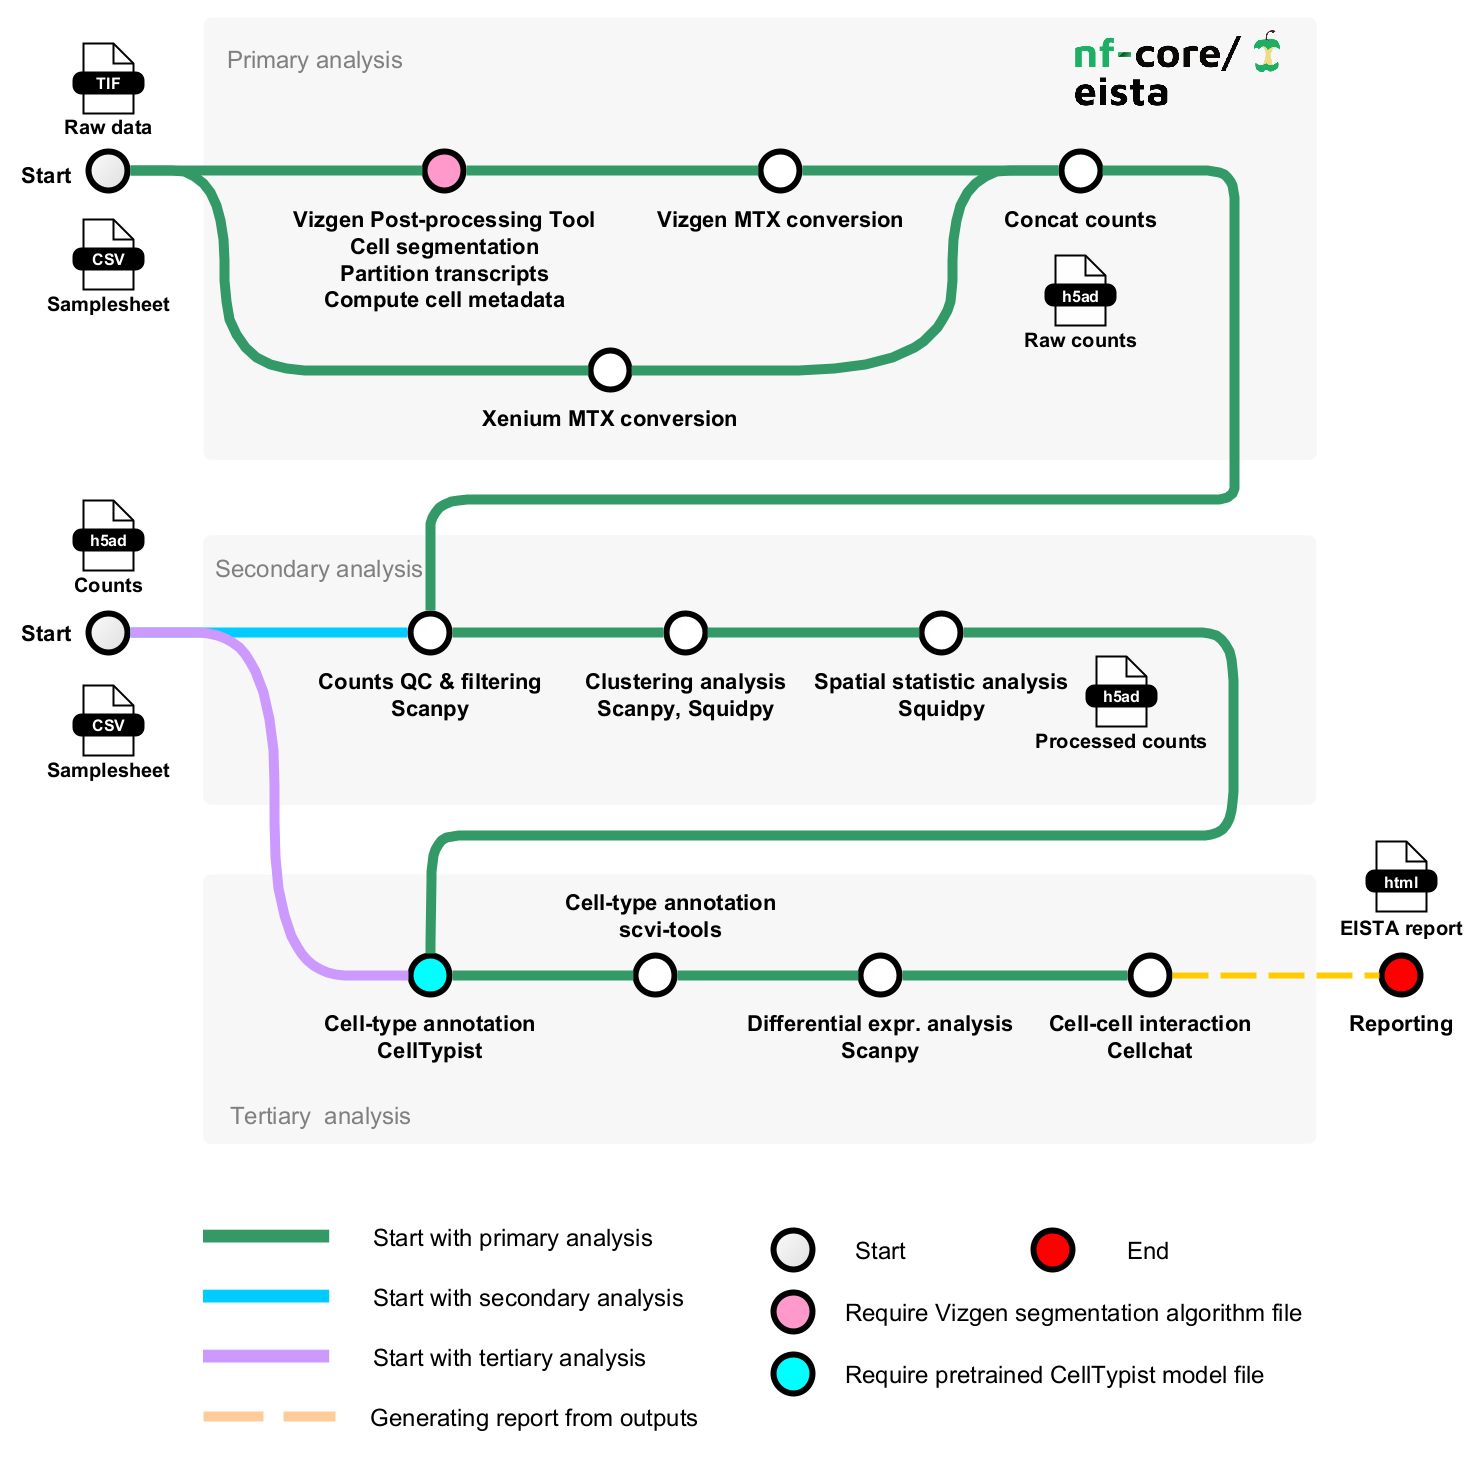
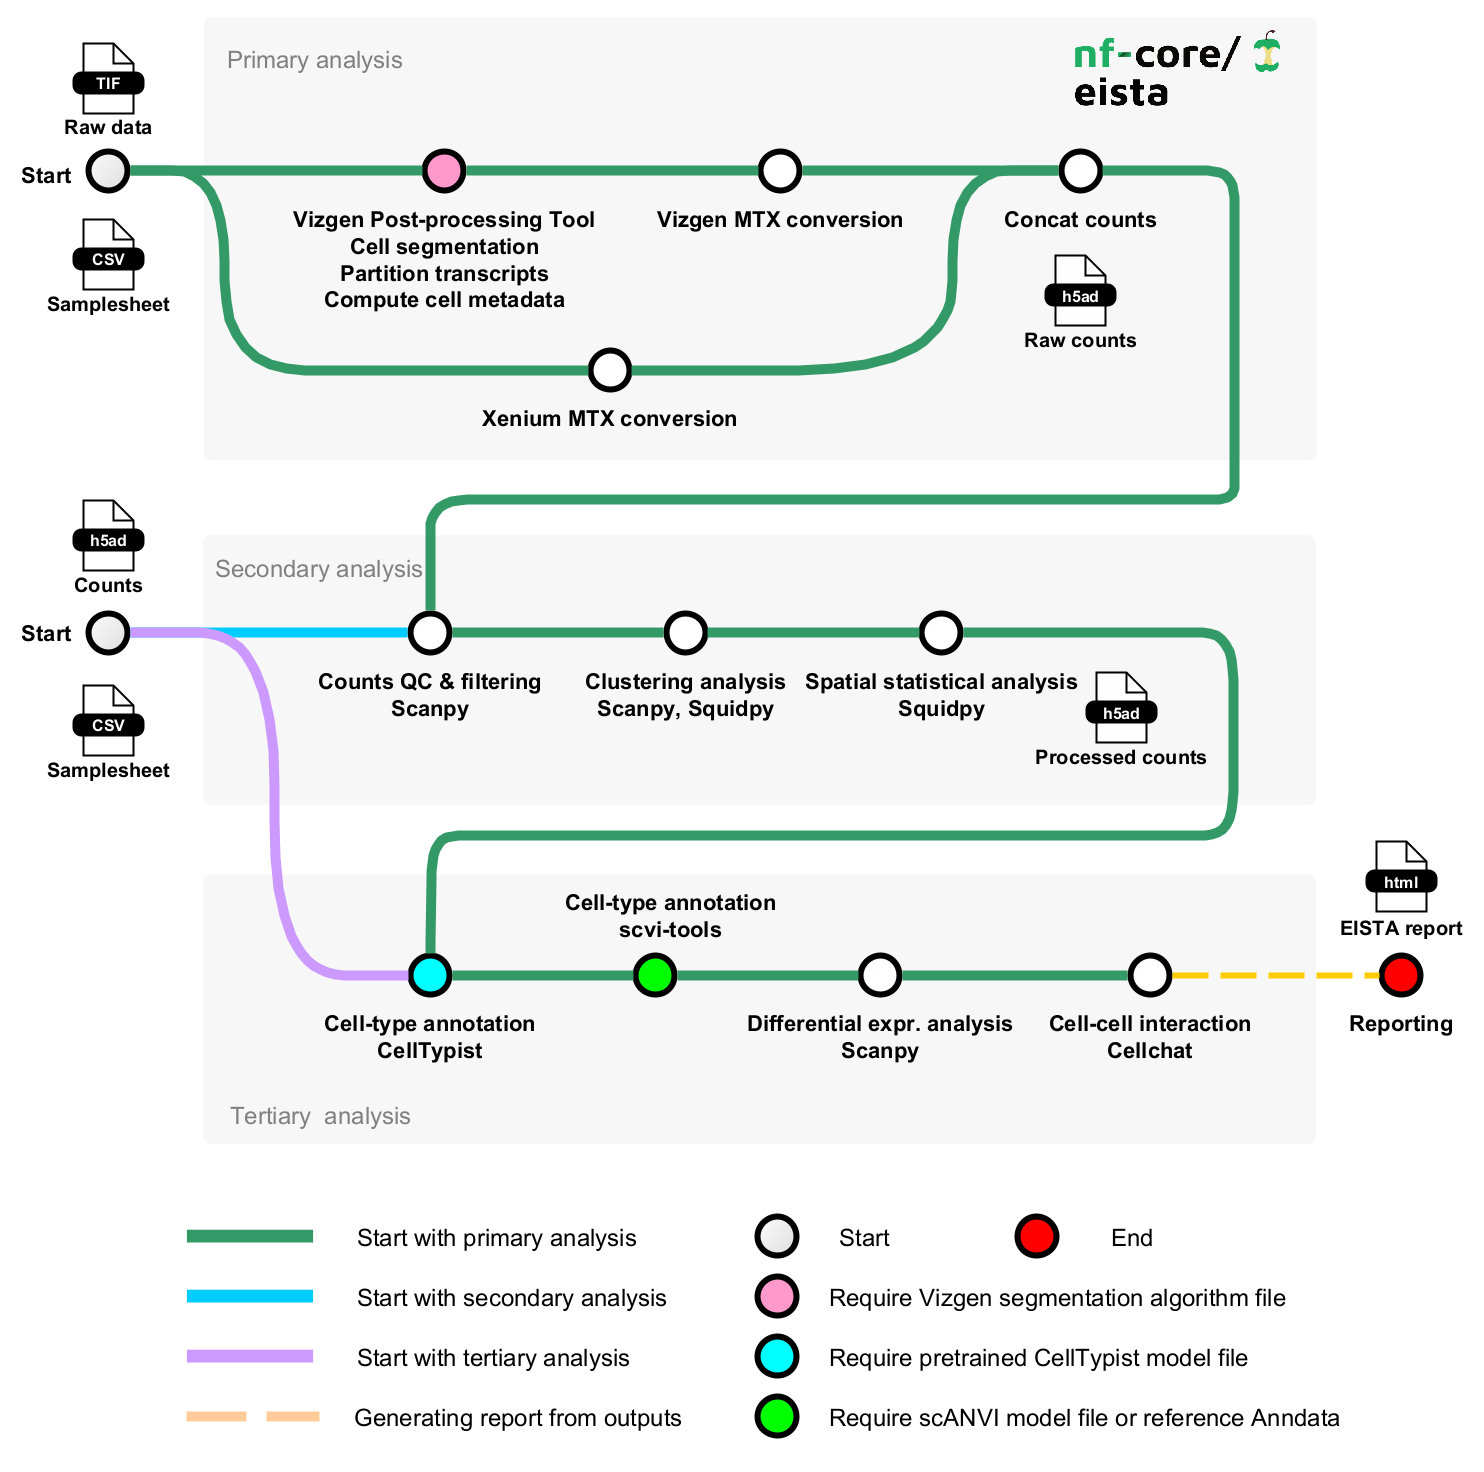
improve docs

diff --git a/bin/qc_cell_filter.py b/bin/qc_cell_filter.py
@@ -239,9 +239,10 @@ def main(argv=None):
         # # hemoglobin genes
         # adata_s.var["hb"] = adata_s.var_names.str.contains("^HB[^(P)]")
 
-        sc.pp.calculate_qc_metrics(
-            adata_s, percent_top=(50, 100, 200, 300), inplace=True, log1p=True
-        )
+        # sc.pp.calculate_qc_metrics(
+        #     adata_s, percent_top=(50, 100, 200, 300), inplace=True, log1p=True
+        # )
+        sc.pp.calculate_qc_metrics(adata_s, percent_top=[], inplace=True, log1p=True)
 
         # create summary csv file for all samples
         n_cells_raw = adata_s.obs[adata_s.obs['n_genes_by_counts']>0].shape[0]
@@ -355,7 +356,7 @@ def main(argv=None):
         if max_genes_s > 0:
             sc.pp.filter_cells(adata_s, max_genes=max_genes_s)
 
-        sc.pp.calculate_qc_metrics(adata_s, inplace=True)
+        sc.pp.calculate_qc_metrics(adata_s, percent_top=[], inplace=True)
 
         if args.iqr_coef > 0:
             # q1 = np.percentile(adata_s.obs.total_counts.values, 25)
@@ -363,7 +364,7 @@ def main(argv=None):
             # upper_fence = q3 + args.iqr_coef*(q3 - q1)
             lower_fence, upper_fence = util.iqr_bounds(adata_s.obs["total_counts"], args.iqr_coef)
             sc.pp.filter_cells(adata_s, max_counts=upper_fence)
-            sc.pp.calculate_qc_metrics(adata_s, inplace=True)
+            sc.pp.calculate_qc_metrics(adata_s, percent_top=[], inplace=True)
 
         if min_volume_s > 0:
             adata_s = adata_s[adata_s.obs.volume.values > min_volume_s]

diff --git a/bin/rank_genes.py b/bin/rank_genes.py
@@ -165,9 +165,7 @@ def main(argv=None):
             groups.remove(args.reference)
 
         if args.celltype_col: # DEA between conditions for each celltype
-            celltypes = sorted(adata.obs[args.celltype_col].unique()) if args.celltypes==None else args.celltypes.split(',')
-            # path_analysis = Path(path_analysis, 'compare_ct')
-            # util.check_and_create_folder(path_analysis)
+            celltypes = args.celltypes.split(',') if args.celltypes else sorted(adata.obs[args.celltype_col].unique()) 
             for celltype in celltypes:
                 adata_s = adata[adata.obs[args.celltype_col]==celltype]   
                 path_analysis_s = Path(path_analysis, f"celltype_{celltype}".replace(' ', '_').replace('/', '_'))

diff --git a/docs/output.md b/docs/output.md
@@ -79,6 +79,8 @@ The pipeline is built using [Nextflow](https://www.nextflow.io/) and processes d
 - `sample_*/` or `group_*/`
   - `umap_leiden_res_*.png`: UMAP plots showing clustering results with differnt resoultuion settings.
   - `spatial_scatter_leiden_res_*.png`: spatial scatter plots for the corresponding resolutions of clustering.
+  - `spatial_map_res_*/`
+    - `spatial_map_label_*.png`: spatial scatter plots for individual clusters.
 - `resolution_*/`
   - `prop_leiden_res_*.png`: plot showing a stacked bar chart that presents the proportions of clusters across samples/groups.
 - `parameters.json`: a JSON file containing the parameter settings in the analysis.
@@ -128,14 +130,35 @@ The pipeline is built using [Nextflow](https://www.nextflow.io/) and processes d
 ### <u>DEA analysis</u>
 
 **Output directory: `results/dea`**
-- `markers/`: subfolder for the identification of marker genes.
-- `compare/`: subfolder for the identification of differentially expressed genes between groups across all cells.
-- `compare_ct/`: subfolder for the identification of differentially expressed genes between groups across cell types.
-  - `sample_*/` or `group_*/` or `celltype_*/` (no subfolder for DEA betweeen groups)
-    - `plot_genes_*.png`: plots showing top number of DE genes across groups.
-    - `dotplot_genes_*.png`: dot plot showing top number of DE genes across groups.
-    - `dea_*.csv`: a csv table file showing DEA results for all genes, e.g. log fold change, p-values.
-    - `spatial_scatter_*.png`: spatial scatter plots show top marker genes onto the tissue morphology.
+- `markers/`: subfolder for the identification of marker genes for each group.
+  - `group_*/`
+    - `plot_genes_*.png`: ranking plots showing the top differentially expressed (DE) genes.
+    - `dotplot_genes_*.png`: dot plots showing the top DE genes across groups.
+    - `dea_*.csv`: a CSV file containing DEA results for all genes, including log fold changes and p-values.
+    - `spatial_scatter_*.png`: spatial maps showing top marker genes overlaid on tissue morphology.
+  - `parameters.json`: a JSON file containing the parameter settings in the analysis.
+
+- `markers_cb/`: subfolder for the identification of marker genes for combined samples.
+  - `plot_genes_*.png`: ranking plots showing the top differentially expressed (DE) genes.
+  - `dotplot_genes_*.png`: dot plots showing the top DE genes across groups.
+  - `dea_*.csv`: a CSV file containing DEA results for all genes, including log fold changes and p-values.
+  - `parameters.json`: a JSON file containing the parameter settings in the analysis.
+  - `group_*/`
+    - `spatial_scatter_*.png`: spatial maps showing cluster cells overlaid on tissue morphology for each cluster.
+
+- `compare/`: subfolder for the identification of DE genes between groups across all cells.
+  - `plot_genes_group_*.png`: ranking plots showing the top differentially expressed (DE) genes between groups.
+  - `dotplot_genes_group_*.png`: dot plots showing the top DE genes across groups.
+  - `dea_group_*.csv`: a CSV file containing DEA results for all genes, including log fold changes and p-values.
+  - `spatial_scatter_*.png`: spatial maps showing top DE genes overlaid on tissue morphology.
+  - `parameters.json`: a JSON file containing the parameter settings in the analysis.
+
+- `compare_ct/`: subfolder for the identification of DE genes between groups for each cell type.
+  - `celltype_*/`
+    - `plot_genes_group_*.png`: ranking plots showing the top differentially expressed (DE) genes between groups.
+    - `dotplot_genes_group_*.png`: dot plots showing the top DE genes across groups.
+    - `dea_group_*.csv`: a CSV file containing DEA results for all genes, including log fold changes and p-values.
+    - `spatial_scatter_*.png`: spatial maps showing top DE genes overlaid on tissue morphology.
   - `parameters.json`: a JSON file containing the parameter settings in the analysis.
 
 

diff --git a/docs/usage.md b/docs/usage.md
@@ -153,7 +153,7 @@ Users can set the options for clustering analysis in the parameter `args_cluster
 | --pdf | An switch of whether to generate figure files in PDF format. (false by default)|
 
 For example, `--args_clustering "--resolutions 0.1,0.2,0.3,0.5"`
-You can update the results without redoing the clustering by specifying a pre-generated AnnData file containing the clustering results. For instance, you can update the results when you want to filter out clusters or plot spatial maps for specific resolutions.
+You can update the results without re-running clustering by specifying a pre-generated AnnData file containing clustering results. For example, this allows you to filter out small clusters or generate spatial maps at specific resolutions.
 
 
 ## Spatial statistical analysis
@@ -250,7 +250,8 @@ Users can set the options for differential analysis in the parameter `--args_dea
 | --pdf | An switch of whether to generate figure files in PDF format. (false by default)|
 
 For example:  
-`--args_dea "--groupby leiden_res_0.50"` - perform DEA to find marker genes for each cluster against the rest using clusters defined in column 'leiden_res_0.50' at group level if 'group' is defined in the samplesheet. Applying `--meta sample` to perform DEA at sample level.  
+`--args_dea "--groupby leiden_res_0.50"` - perform DEA to find marker genes for each cluster against the rest using clusters defined in column 'leiden_res_0.50' at group level if 'group' is defined in the samplesheet. Applying `--meta sample` to perform DEA at sample level.
+`--args_dea "--groupby leiden_res_0.50  --combine"` - perform DEA to find marker genes for each cluster against the rest using clusters defined in column 'leiden_res_0.50' for combined samples.  
 `--args_dea "--groupby group --reference control"` - perform DEA to find DE genes between each group against the group 'control', groups are defined in column 'group'.  
 `--args_dea "--groupby group --reference control --celltype_col majority_voting"` - same as above but for each cell-type defined in column 'majority_voting'.
 
